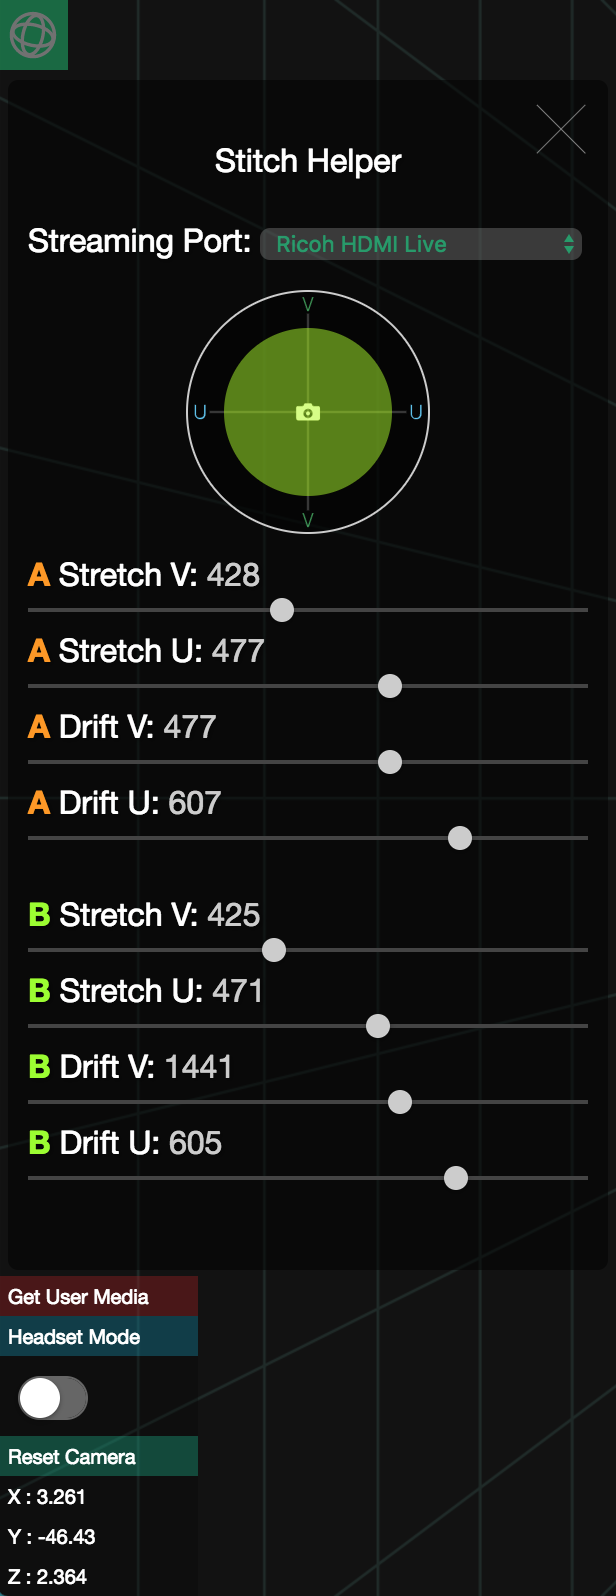
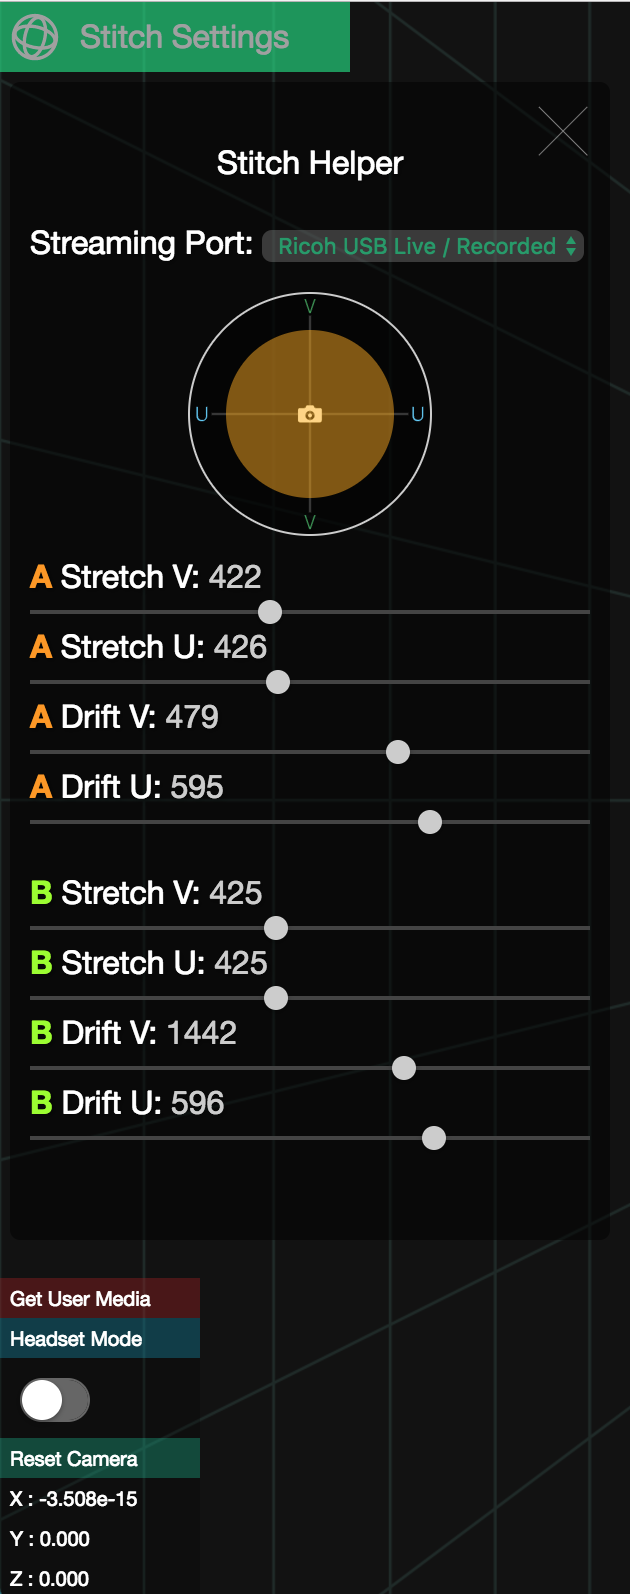
yeah

diff --git a/css/sphereView.css b/css/sphereView.css
@@ -49,21 +49,29 @@ body{
     .bnt{
       position: absolute;
       background-repeat: no-repeat;
-      background-position: center;
+      background-position: 5px center;
       cursor: pointer;
-      opacity: 0.4;
+      opacity: 0.6;
       height: 35px;
-      width: 35px;
       z-index: 999;
-      left: 2px;
+      left: 0px;
       top: 0px;
     }
 
     #stitch{
       background-image: url("../img/360.svg");
       background-color: #00EE88;
-      background-size: 72%;
+      background-size: auto 72%;
       left:0px;
+      color: #FFF;
+      width: 135px;
+      padding-left: 40px;
+      height: 35px;
+      line-height: 35px;
+      transition: opacity 0.2s ease-in-out;
+    }
+    #stitch:hover{
+      opacity: 1;
     }
 
     #stitchHelper{

diff --git a/index.html b/index.html
@@ -1,6 +1,12 @@
+<!DOCTYPE html>
+
 <html>
 
-	<title> Stitch Demo </title>
+	<head>
+		<meta charset="utf-8" />
+		<meta name="viewport" content="user-scalable=no, initial-scale=1"/>
+
+		<title> Stitch Demo </title>
 
 	<head>
 		<meta charset="utf-8">
@@ -11,7 +17,7 @@
 
 	<body class = "container">
 
-		<div id = "stitch" class = "bnt" title="Setting"></div>
+		<div id = "stitch" class = "bnt" title="Setting"> Stitch Settings </div>
 
 		<video id="thetaVideo" muted style="display:none" loop="true" autoplay="" src="video/placeholder.mp4" type='video/mp4'></video>
 
